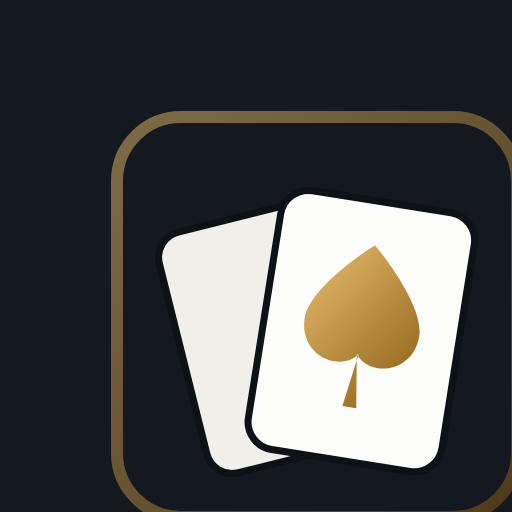
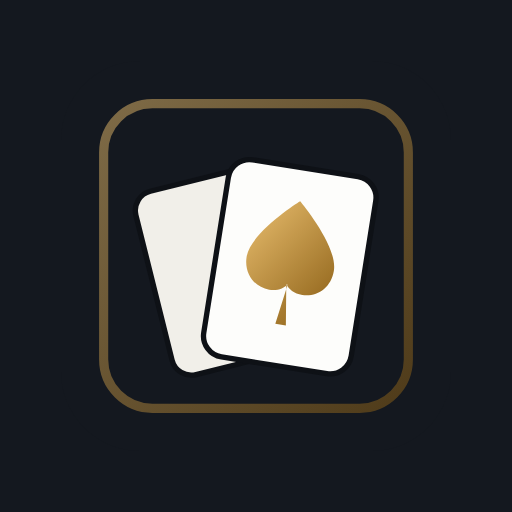
Add link-preview card and Open Graph tags
Sending the page to someone should show more than a bare URL, so the app
now carries og/twitter meta and a 1200x630 preview card rendered from the
same tokens and icon the app uses.

Also fixes the icon renderer: the root <svg> carries width="512"
height="512", which overrode the box it was dropped into, so the maskable
icon was being clipped rather than inset. Only the root attributes are
stripped now; the shapes inside keep theirs and scale with the viewBox.

Claude-Session: https://claude.ai/code/session_013UeVyK2dT2iaVCLvzNupSH

Changed region(s): [[0.1875, 0.1875, 1.0, 1.0], [0.9062, 0.9062, 1.0, 1.0]]

diff --git a/index.html b/index.html
@@ -7,6 +7,14 @@
 <meta name="description" content="Drill blackjack basic strategy with the win, push and lose odds behind every play.">
 <meta name="theme-color" content="#f5f7f9" media="(prefers-color-scheme: light)">
 <meta name="theme-color" content="#11151b" media="(prefers-color-scheme: dark)">
+<meta property="og:type" content="website">
+<meta property="og:title" content="Hard Sixteen">
+<meta property="og:description" content="Drill blackjack basic strategy with the win, push and lose odds behind every play.">
+<meta property="og:image" content="icons/og.png">
+<meta name="twitter:card" content="summary_large_image">
+<meta name="twitter:title" content="Hard Sixteen">
+<meta name="twitter:description" content="Drill blackjack basic strategy with the win, push and lose odds behind every play.">
+<meta name="twitter:image" content="icons/og.png">
 <meta name="apple-mobile-web-app-capable" content="yes">
 <meta name="apple-mobile-web-app-title" content="Hard Sixteen">
 <link rel="manifest" href="manifest.webmanifest">
